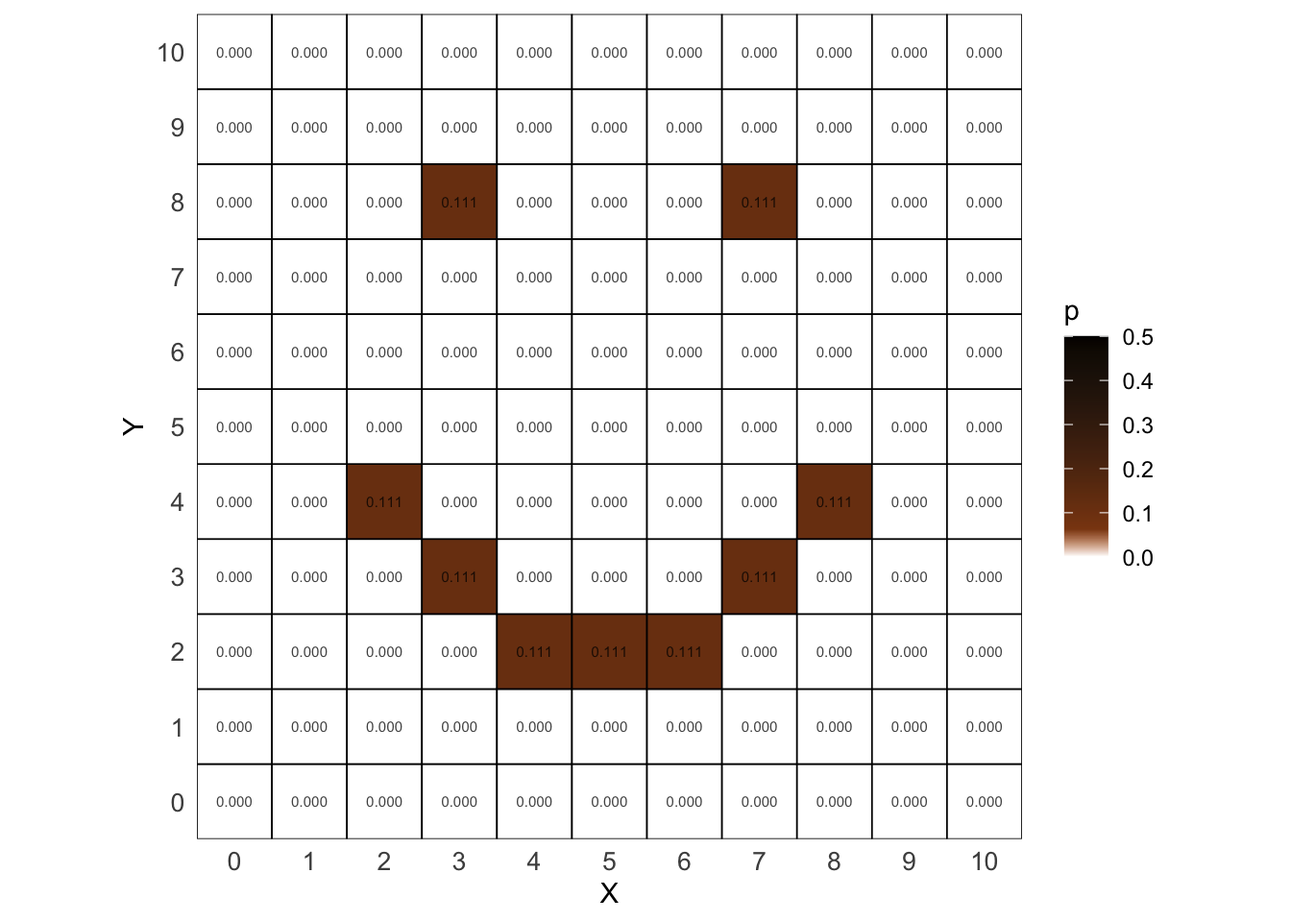
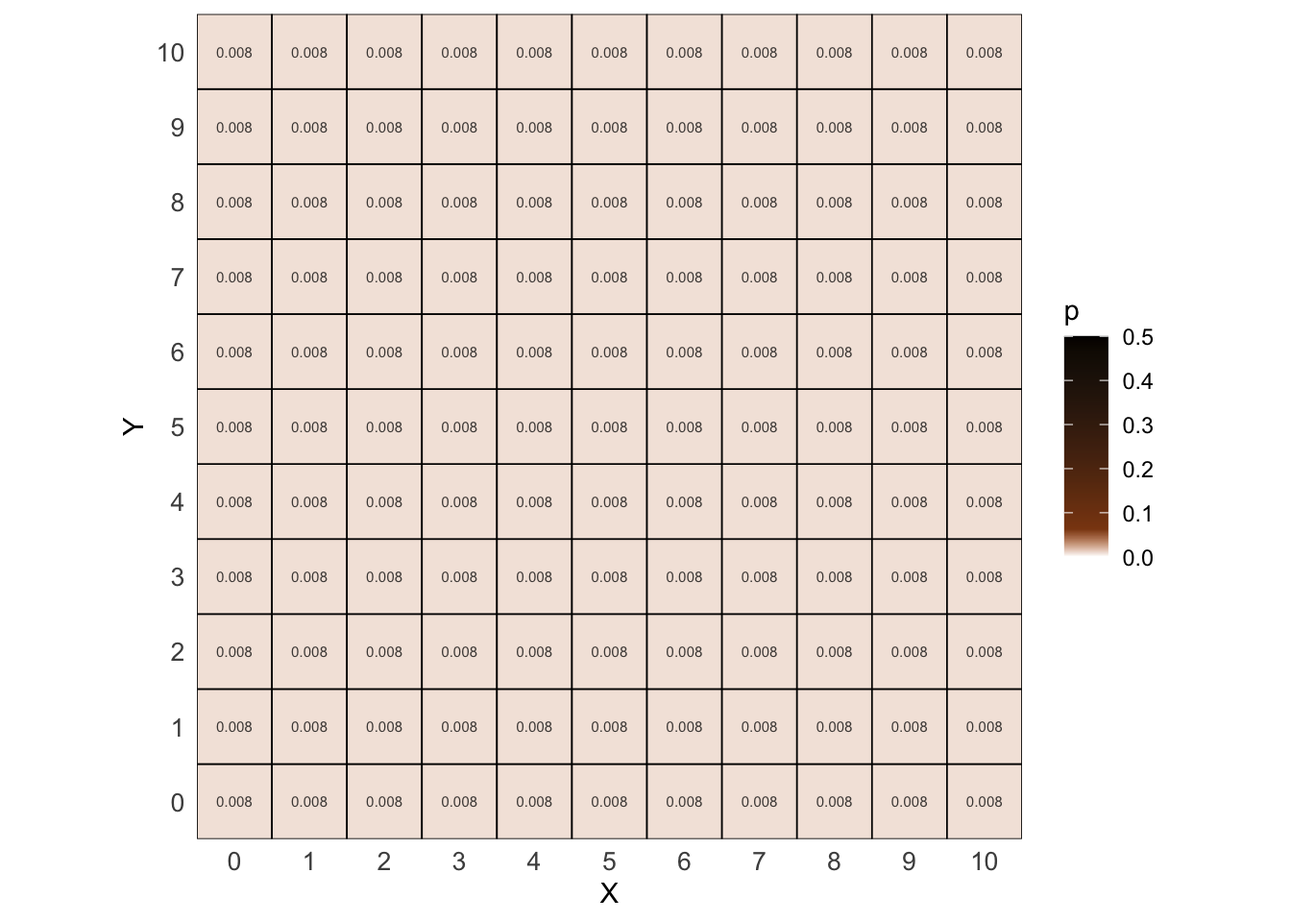
Major edits

diff --git a/lectures/linear_models/from_nutella_on_toast_to_statistical_models.html b/lectures/linear_models/from_nutella_on_toast_to_statistical_models.html
@@ -137,7 +137,12 @@ window.Quarto = {
   <li><a href="#linear-model-with-cauchy-error-heavier-tails-than-the-normal" id="toc-linear-model-with-cauchy-error-heavier-tails-than-the-normal" class="nav-link" data-scroll-target="#linear-model-with-cauchy-error-heavier-tails-than-the-normal">Linear model with Cauchy error (heavier tails than the normal)</a></li>
   <li><a href="#non-linear-model-with-no-error" id="toc-non-linear-model-with-no-error" class="nav-link" data-scroll-target="#non-linear-model-with-no-error">Non-linear model with no error</a></li>
   <li><a href="#non-linear-model-with-normal-error" id="toc-non-linear-model-with-normal-error" class="nav-link" data-scroll-target="#non-linear-model-with-normal-error">Non-linear model with normal error</a></li>
-  <li><a href="#another-non-linear-model-with-no-error" id="toc-another-non-linear-model-with-no-error" class="nav-link" data-scroll-target="#another-non-linear-model-with-no-error">Another non-linear model with no error</a></li>
+  </ul></li>
+  <li><a href="#conditional-probability" id="toc-conditional-probability" class="nav-link" data-scroll-target="#conditional-probability">Conditional probability</a>
+  <ul class="collapse">
+  <li><a href="#uniform-model-1" id="toc-uniform-model-1" class="nav-link" data-scroll-target="#uniform-model-1">Uniform model</a></li>
+  <li><a href="#linear-model-with-no-error-1" id="toc-linear-model-with-no-error-1" class="nav-link" data-scroll-target="#linear-model-with-no-error-1">Linear model with no error</a></li>
+  <li><a href="#linear-model-with-uniform-error-2" id="toc-linear-model-with-uniform-error-2" class="nav-link" data-scroll-target="#linear-model-with-uniform-error-2">Linear model with uniform error</a></li>
   </ul></li>
   <li><a href="#print-environment" id="toc-print-environment" class="nav-link" data-scroll-target="#print-environment">Print environment</a></li>
   </ul>
@@ -525,7 +530,7 @@ window.Quarto = {
 </div>
 </div>
 <p><span class="math inline">\(p(x, y)\)</span></p>
-<p><span class="math display">\[P(Y = 2 \mid X = 1, M_0)\]</span></p>
+<p><span class="math display">\[P(Y = 3 \mid X = 1, M_0)\]</span></p>
 </section>
 <section id="calculate-conditional-probability-1" class="level3">
 <h3 class="anchored" data-anchor-id="calculate-conditional-probability-1">Calculate conditional probability</h3>
@@ -550,7 +555,7 @@ window.Quarto = {
 </div>
 </div>
 <p><span class="math inline">\(p(x, y \mid X = 1)\)</span></p>
-<p><span class="math display">\[P(Y = 2 \mid X = 1, M_0)\]</span></p>
+<p><span class="math display">\[P(Y = 3 \mid X = 1, M_0)\]</span></p>
 <div class="cell">
 <div class="sourceCode cell-code" id="cb18"><pre class="sourceCode r code-with-copy"><code class="sourceCode r"><span id="cb18-1"><a href="#cb18-1" aria-hidden="true" tabindex="-1"></a><span class="fu">expand_grid</span>(<span class="at">X =</span> <span class="fu">c</span>(<span class="dv">0</span>, <span class="dv">1</span>, <span class="dv">2</span>, <span class="dv">3</span>), <span class="at">Y =</span> <span class="fu">c</span>(<span class="dv">0</span>, <span class="dv">1</span>, <span class="dv">2</span>, <span class="dv">3</span>)) <span class="sc">%&gt;%</span></span>
 <span id="cb18-2"><a href="#cb18-2" aria-hidden="true" tabindex="-1"></a>  <span class="fu">mutate</span>(</span>
@@ -562,7 +567,7 @@ window.Quarto = {
 <span id="cb18-8"><a href="#cb18-8" aria-hidden="true" tabindex="-1"></a>  <span class="fu">mutate</span>(</span>
 <span id="cb18-9"><a href="#cb18-9" aria-hidden="true" tabindex="-1"></a>    <span class="at">p =</span> <span class="fu">if_else</span>(M1, p <span class="sc">/</span> <span class="fu">sum</span>(p[M1]), <span class="dv">0</span>)</span>
 <span id="cb18-10"><a href="#cb18-10" aria-hidden="true" tabindex="-1"></a>  ) <span class="sc">%&gt;%</span></span>
-<span id="cb18-11"><a href="#cb18-11" aria-hidden="true" tabindex="-1"></a>  <span class="fu">filter</span>(Y <span class="sc">==</span> <span class="dv">2</span>) <span class="sc">%&gt;%</span> </span>
+<span id="cb18-11"><a href="#cb18-11" aria-hidden="true" tabindex="-1"></a>  <span class="fu">filter</span>(Y <span class="sc">==</span> <span class="dv">3</span>) <span class="sc">%&gt;%</span> </span>
 <span id="cb18-12"><a href="#cb18-12" aria-hidden="true" tabindex="-1"></a>  <span class="fu">summarize</span>(<span class="at">P =</span> <span class="fu">sum</span>(p))</span></code><button title="Copy to Clipboard" class="code-copy-button"><i class="bi"></i></button></pre></div>
 <div class="cell-output-display">
 <div data-pagedtable="false">
@@ -916,22 +921,17 @@ p(x, y \mid M_2) &amp; = p\bigl(x, y \mid (y = 3 + x + e), e \sim \text{Cauchy}(
 </div>
 </div>
 </section>
-<section id="another-non-linear-model-with-no-error" class="level3">
-<h3 class="anchored" data-anchor-id="another-non-linear-model-with-no-error">Another non-linear model with no error</h3>
+</section>
+<section id="conditional-probability" class="level2">
+<h2 class="anchored" data-anchor-id="conditional-probability">Conditional probability</h2>
+<section id="uniform-model-1" class="level3">
+<h3 class="anchored" data-anchor-id="uniform-model-1">Uniform model</h3>
 <div class="cell">
-<div class="sourceCode cell-code" id="cb35"><pre class="sourceCode r code-with-copy"><code class="sourceCode r"><span id="cb35-1"><a href="#cb35-1" aria-hidden="true" tabindex="-1"></a>ss <span class="sc">%&gt;%</span></span>
-<span id="cb35-2"><a href="#cb35-2" aria-hidden="true" tabindex="-1"></a>  <span class="fu">mutate</span>(<span class="at">p =</span> <span class="dv">1</span> <span class="sc">/</span> <span class="fu">n</span>()) <span class="sc">%&gt;%</span></span>
-<span id="cb35-3"><a href="#cb35-3" aria-hidden="true" tabindex="-1"></a>  <span class="fu">rowwise</span>() <span class="sc">%&gt;%</span></span>
-<span id="cb35-4"><a href="#cb35-4" aria-hidden="true" tabindex="-1"></a>  <span class="fu">mutate</span>(</span>
-<span id="cb35-5"><a href="#cb35-5" aria-hidden="true" tabindex="-1"></a>    <span class="at">M4 =</span> (Y <span class="sc">==</span> <span class="fu">c</span>(<span class="sc">-</span><span class="dv">1</span>, <span class="sc">-</span><span class="dv">1</span>, <span class="dv">4</span>, <span class="dv">3</span>, <span class="dv">2</span>, <span class="dv">2</span>, <span class="dv">2</span>, <span class="dv">3</span>, <span class="dv">4</span>, <span class="sc">-</span><span class="dv">1</span>, <span class="sc">-</span><span class="dv">1</span>)[X <span class="sc">+</span> <span class="dv">1</span>]) <span class="sc">|</span></span>
-<span id="cb35-6"><a href="#cb35-6" aria-hidden="true" tabindex="-1"></a>         (X <span class="sc">==</span> <span class="dv">3</span> <span class="sc">&amp;</span> Y <span class="sc">==</span> <span class="dv">8</span>) <span class="sc">|</span></span>
-<span id="cb35-7"><a href="#cb35-7" aria-hidden="true" tabindex="-1"></a>         (X <span class="sc">==</span> <span class="dv">7</span> <span class="sc">&amp;</span> Y <span class="sc">==</span> <span class="dv">8</span>)</span>
-<span id="cb35-8"><a href="#cb35-8" aria-hidden="true" tabindex="-1"></a>  ) <span class="sc">%&gt;%</span></span>
-<span id="cb35-9"><a href="#cb35-9" aria-hidden="true" tabindex="-1"></a>  <span class="fu">ungroup</span>() <span class="sc">%&gt;%</span></span>
-<span id="cb35-10"><a href="#cb35-10" aria-hidden="true" tabindex="-1"></a>  <span class="fu">mutate</span>(</span>
-<span id="cb35-11"><a href="#cb35-11" aria-hidden="true" tabindex="-1"></a>    <span class="at">p =</span> <span class="fu">if_else</span>(M4, p <span class="sc">/</span> <span class="fu">sum</span>(p[M4]), <span class="dv">0</span>)</span>
-<span id="cb35-12"><a href="#cb35-12" aria-hidden="true" tabindex="-1"></a>  ) <span class="sc">%&gt;%</span></span>
-<span id="cb35-13"><a href="#cb35-13" aria-hidden="true" tabindex="-1"></a>  <span class="fu">plot_model</span>()</span></code><button title="Copy to Clipboard" class="code-copy-button"><i class="bi"></i></button></pre></div>
+<div class="sourceCode cell-code" id="cb35"><pre class="sourceCode r code-with-copy"><code class="sourceCode r"><span id="cb35-1"><a href="#cb35-1" aria-hidden="true" tabindex="-1"></a>ss <span class="sc">%&gt;%</span> </span>
+<span id="cb35-2"><a href="#cb35-2" aria-hidden="true" tabindex="-1"></a>  <span class="fu">mutate</span>(</span>
+<span id="cb35-3"><a href="#cb35-3" aria-hidden="true" tabindex="-1"></a>    <span class="at">p =</span> <span class="dv">1</span> <span class="sc">/</span> <span class="fu">n</span>() <span class="co"># M0</span></span>
+<span id="cb35-4"><a href="#cb35-4" aria-hidden="true" tabindex="-1"></a>  ) <span class="sc">%&gt;%</span></span>
+<span id="cb35-5"><a href="#cb35-5" aria-hidden="true" tabindex="-1"></a>  <span class="fu">plot_model</span>()</span></code><button title="Copy to Clipboard" class="code-copy-button"><i class="bi"></i></button></pre></div>
 <div class="cell-output-display">
 <div>
 <figure class="figure">
@@ -940,12 +940,197 @@ p(x, y \mid M_2) &amp; = p\bigl(x, y \mid (y = 3 + x + e), e \sim \text{Cauchy}(
 </div>
 </div>
 </div>
+<p><span class="math inline">\(p(x, y)\)</span></p>
+<p><span class="math display">\[P(Y = 4 \mid M_0)\]</span></p>
+<div class="cell">
+<div class="sourceCode cell-code" id="cb36"><pre class="sourceCode r code-with-copy"><code class="sourceCode r"><span id="cb36-1"><a href="#cb36-1" aria-hidden="true" tabindex="-1"></a>ss <span class="sc">%&gt;%</span> </span>
+<span id="cb36-2"><a href="#cb36-2" aria-hidden="true" tabindex="-1"></a>  <span class="fu">mutate</span>(</span>
+<span id="cb36-3"><a href="#cb36-3" aria-hidden="true" tabindex="-1"></a>    <span class="at">p =</span> <span class="dv">1</span> <span class="sc">/</span> <span class="fu">n</span>() <span class="co"># M0</span></span>
+<span id="cb36-4"><a href="#cb36-4" aria-hidden="true" tabindex="-1"></a>  ) <span class="sc">%&gt;%</span></span>
+<span id="cb36-5"><a href="#cb36-5" aria-hidden="true" tabindex="-1"></a>  <span class="fu">filter</span>(Y <span class="sc">==</span> <span class="dv">4</span>) <span class="sc">%&gt;%</span> </span>
+<span id="cb36-6"><a href="#cb36-6" aria-hidden="true" tabindex="-1"></a>  <span class="fu">summarize</span>(<span class="at">P =</span> <span class="fu">sum</span>(p))</span></code><button title="Copy to Clipboard" class="code-copy-button"><i class="bi"></i></button></pre></div>
+<div class="cell-output-display">
+<div data-pagedtable="false">
+  <script data-pagedtable-source="" type="application/json">
+{"columns":[{"label":["P"],"name":[1],"type":["dbl"],"align":["right"]}],"data":[{"1":"0.09091"}],"options":{"columns":{"min":{},"max":[10]},"rows":{"min":[10],"max":[10]},"pages":{}}}
+  </script>
+</div>
+</div>
+</div>
+<p><span class="math display">\[P(Y = 4 \mid X = 1, M_0)\]</span></p>
+<div class="cell">
+<div class="sourceCode cell-code" id="cb37"><pre class="sourceCode r code-with-copy"><code class="sourceCode r"><span id="cb37-1"><a href="#cb37-1" aria-hidden="true" tabindex="-1"></a>ss <span class="sc">%&gt;%</span> </span>
+<span id="cb37-2"><a href="#cb37-2" aria-hidden="true" tabindex="-1"></a>  <span class="fu">mutate</span>(</span>
+<span id="cb37-3"><a href="#cb37-3" aria-hidden="true" tabindex="-1"></a>    <span class="at">p =</span> <span class="dv">1</span> <span class="sc">/</span> <span class="fu">n</span>() <span class="co"># M0</span></span>
+<span id="cb37-4"><a href="#cb37-4" aria-hidden="true" tabindex="-1"></a>  ) <span class="sc">%&gt;%</span></span>
+<span id="cb37-5"><a href="#cb37-5" aria-hidden="true" tabindex="-1"></a>  <span class="fu">rowwise</span>() <span class="sc">%&gt;%</span> </span>
+<span id="cb37-6"><a href="#cb37-6" aria-hidden="true" tabindex="-1"></a>  <span class="fu">mutate</span>(</span>
+<span id="cb37-7"><a href="#cb37-7" aria-hidden="true" tabindex="-1"></a>    <span class="at">X1 =</span> (X <span class="sc">==</span> <span class="dv">1</span>)) <span class="sc">%&gt;%</span> </span>
+<span id="cb37-8"><a href="#cb37-8" aria-hidden="true" tabindex="-1"></a>  <span class="fu">ungroup</span>() <span class="sc">%&gt;%</span></span>
+<span id="cb37-9"><a href="#cb37-9" aria-hidden="true" tabindex="-1"></a>  <span class="fu">mutate</span>(<span class="at">p =</span> <span class="fu">if_else</span>(X1, p <span class="sc">/</span> <span class="fu">sum</span>(p[X1]), <span class="dv">0</span>)) <span class="sc">%&gt;%</span></span>
+<span id="cb37-10"><a href="#cb37-10" aria-hidden="true" tabindex="-1"></a>  <span class="fu">filter</span>(Y <span class="sc">==</span> <span class="dv">4</span>) <span class="sc">%&gt;%</span> </span>
+<span id="cb37-11"><a href="#cb37-11" aria-hidden="true" tabindex="-1"></a>  <span class="fu">summarize</span>(<span class="at">P =</span> <span class="fu">sum</span>(p))</span></code><button title="Copy to Clipboard" class="code-copy-button"><i class="bi"></i></button></pre></div>
+<div class="cell-output-display">
+<div data-pagedtable="false">
+  <script data-pagedtable-source="" type="application/json">
+{"columns":[{"label":["P"],"name":[1],"type":["dbl"],"align":["right"]}],"data":[{"1":"0.09091"}],"options":{"columns":{"min":{},"max":[10]},"rows":{"min":[10],"max":[10]},"pages":{}}}
+  </script>
+</div>
+</div>
+</div>
+</section>
+<section id="linear-model-with-no-error-1" class="level3">
+<h3 class="anchored" data-anchor-id="linear-model-with-no-error-1">Linear model with no error</h3>
+<div class="cell">
+<div class="sourceCode cell-code" id="cb38"><pre class="sourceCode r code-with-copy"><code class="sourceCode r"><span id="cb38-1"><a href="#cb38-1" aria-hidden="true" tabindex="-1"></a>ss <span class="sc">%&gt;%</span> </span>
+<span id="cb38-2"><a href="#cb38-2" aria-hidden="true" tabindex="-1"></a>  <span class="fu">mutate</span>(</span>
+<span id="cb38-3"><a href="#cb38-3" aria-hidden="true" tabindex="-1"></a>    <span class="at">p =</span> <span class="dv">1</span> <span class="sc">/</span> <span class="fu">n</span>() <span class="co"># M0</span></span>
+<span id="cb38-4"><a href="#cb38-4" aria-hidden="true" tabindex="-1"></a>  ) <span class="sc">%&gt;%</span></span>
+<span id="cb38-5"><a href="#cb38-5" aria-hidden="true" tabindex="-1"></a>  <span class="fu">rowwise</span>() <span class="sc">%&gt;%</span> </span>
+<span id="cb38-6"><a href="#cb38-6" aria-hidden="true" tabindex="-1"></a>  <span class="fu">mutate</span>(</span>
+<span id="cb38-7"><a href="#cb38-7" aria-hidden="true" tabindex="-1"></a>    <span class="at">M1 =</span> (Y <span class="sc">==</span> b0 <span class="sc">+</span> b1 <span class="sc">*</span> X)) <span class="sc">%&gt;%</span> </span>
+<span id="cb38-8"><a href="#cb38-8" aria-hidden="true" tabindex="-1"></a>  <span class="fu">ungroup</span>() <span class="sc">%&gt;%</span></span>
+<span id="cb38-9"><a href="#cb38-9" aria-hidden="true" tabindex="-1"></a>  <span class="fu">mutate</span>(<span class="at">p =</span> <span class="fu">if_else</span>(M1, p <span class="sc">/</span> <span class="fu">sum</span>(p[M1]), <span class="dv">0</span>)) <span class="sc">%&gt;%</span></span>
+<span id="cb38-10"><a href="#cb38-10" aria-hidden="true" tabindex="-1"></a>  <span class="fu">plot_model</span>()</span></code><button title="Copy to Clipboard" class="code-copy-button"><i class="bi"></i></button></pre></div>
+<div class="cell-output-display">
+<div>
+<figure class="figure">
+<p><img src="from_nutella_on_toast_to_statistical_models_files/figure-html/unnamed-chunk-38-1.png" class="img-fluid figure-img" width="672"></p>
+</figure>
+</div>
+</div>
+</div>
+<p><span class="math display">\[
+\begin{aligned}
+p(x, y \mid M_1) &amp; = p(x, y \mid y = 3 + x) \\
+                 &amp; = p(x, y \mid \beta_0 = 3, \beta_1 = 1, M_L) \quad M_L: y = \beta_0 + \beta_1 x
+\end{aligned}
+\]</span></p>
+<p><span class="math display">\[P(Y = 4, M_1)\]</span></p>
+<div class="cell">
+<div class="sourceCode cell-code" id="cb39"><pre class="sourceCode r code-with-copy"><code class="sourceCode r"><span id="cb39-1"><a href="#cb39-1" aria-hidden="true" tabindex="-1"></a>ss <span class="sc">%&gt;%</span> </span>
+<span id="cb39-2"><a href="#cb39-2" aria-hidden="true" tabindex="-1"></a>  <span class="fu">mutate</span>(</span>
+<span id="cb39-3"><a href="#cb39-3" aria-hidden="true" tabindex="-1"></a>    <span class="at">p =</span> <span class="dv">1</span> <span class="sc">/</span> <span class="fu">n</span>() <span class="co"># M0</span></span>
+<span id="cb39-4"><a href="#cb39-4" aria-hidden="true" tabindex="-1"></a>  ) <span class="sc">%&gt;%</span></span>
+<span id="cb39-5"><a href="#cb39-5" aria-hidden="true" tabindex="-1"></a>  <span class="fu">rowwise</span>() <span class="sc">%&gt;%</span> </span>
+<span id="cb39-6"><a href="#cb39-6" aria-hidden="true" tabindex="-1"></a>  <span class="fu">mutate</span>(</span>
+<span id="cb39-7"><a href="#cb39-7" aria-hidden="true" tabindex="-1"></a>    <span class="at">M1 =</span> (Y <span class="sc">==</span> b0 <span class="sc">+</span> b1 <span class="sc">*</span> X)) <span class="sc">%&gt;%</span> </span>
+<span id="cb39-8"><a href="#cb39-8" aria-hidden="true" tabindex="-1"></a>  <span class="fu">ungroup</span>() <span class="sc">%&gt;%</span></span>
+<span id="cb39-9"><a href="#cb39-9" aria-hidden="true" tabindex="-1"></a>  <span class="fu">mutate</span>(<span class="at">p =</span> <span class="fu">if_else</span>(M1, p <span class="sc">/</span> <span class="fu">sum</span>(p[M1]), <span class="dv">0</span>)) <span class="sc">%&gt;%</span></span>
+<span id="cb39-10"><a href="#cb39-10" aria-hidden="true" tabindex="-1"></a>  <span class="fu">filter</span>(Y <span class="sc">==</span> <span class="dv">4</span>) <span class="sc">%&gt;%</span> </span>
+<span id="cb39-11"><a href="#cb39-11" aria-hidden="true" tabindex="-1"></a>  <span class="fu">summarize</span>(<span class="at">P =</span> <span class="fu">sum</span>(p))</span></code><button title="Copy to Clipboard" class="code-copy-button"><i class="bi"></i></button></pre></div>
+<div class="cell-output-display">
+<div data-pagedtable="false">
+  <script data-pagedtable-source="" type="application/json">
+{"columns":[{"label":["P"],"name":[1],"type":["dbl"],"align":["right"]}],"data":[{"1":"0.125"}],"options":{"columns":{"min":{},"max":[10]},"rows":{"min":[10],"max":[10]},"pages":{}}}
+  </script>
+</div>
+</div>
+</div>
+<p><span class="math display">\[P(Y = 4 \mid X = 1, M_1)\]</span></p>
+<div class="cell">
+<div class="sourceCode cell-code" id="cb40"><pre class="sourceCode r code-with-copy"><code class="sourceCode r"><span id="cb40-1"><a href="#cb40-1" aria-hidden="true" tabindex="-1"></a>ss <span class="sc">%&gt;%</span> </span>
+<span id="cb40-2"><a href="#cb40-2" aria-hidden="true" tabindex="-1"></a>  <span class="fu">mutate</span>(</span>
+<span id="cb40-3"><a href="#cb40-3" aria-hidden="true" tabindex="-1"></a>    <span class="at">p =</span> <span class="dv">1</span> <span class="sc">/</span> <span class="fu">n</span>() <span class="co"># M0</span></span>
+<span id="cb40-4"><a href="#cb40-4" aria-hidden="true" tabindex="-1"></a>  ) <span class="sc">%&gt;%</span></span>
+<span id="cb40-5"><a href="#cb40-5" aria-hidden="true" tabindex="-1"></a>  <span class="fu">rowwise</span>() <span class="sc">%&gt;%</span> </span>
+<span id="cb40-6"><a href="#cb40-6" aria-hidden="true" tabindex="-1"></a>  <span class="fu">mutate</span>(</span>
+<span id="cb40-7"><a href="#cb40-7" aria-hidden="true" tabindex="-1"></a>    <span class="at">M1 =</span> (Y <span class="sc">==</span> b0 <span class="sc">+</span> b1 <span class="sc">*</span> X),</span>
+<span id="cb40-8"><a href="#cb40-8" aria-hidden="true" tabindex="-1"></a>    <span class="at">X1 =</span> (X <span class="sc">==</span> <span class="dv">1</span>)) <span class="sc">%&gt;%</span> </span>
+<span id="cb40-9"><a href="#cb40-9" aria-hidden="true" tabindex="-1"></a>  <span class="fu">ungroup</span>() <span class="sc">%&gt;%</span></span>
+<span id="cb40-10"><a href="#cb40-10" aria-hidden="true" tabindex="-1"></a>  <span class="fu">mutate</span>(<span class="at">p =</span> <span class="fu">if_else</span>(X1 <span class="sc">&amp;</span> M1, p <span class="sc">/</span> <span class="fu">sum</span>(p[X1 <span class="sc">&amp;</span> M1]), <span class="dv">0</span>)) <span class="sc">%&gt;%</span></span>
+<span id="cb40-11"><a href="#cb40-11" aria-hidden="true" tabindex="-1"></a>  <span class="fu">filter</span>(Y <span class="sc">==</span> <span class="dv">4</span>) <span class="sc">%&gt;%</span> </span>
+<span id="cb40-12"><a href="#cb40-12" aria-hidden="true" tabindex="-1"></a>  <span class="fu">summarize</span>(<span class="at">P =</span> <span class="fu">sum</span>(p))</span></code><button title="Copy to Clipboard" class="code-copy-button"><i class="bi"></i></button></pre></div>
+<div class="cell-output-display">
+<div data-pagedtable="false">
+  <script data-pagedtable-source="" type="application/json">
+{"columns":[{"label":["P"],"name":[1],"type":["dbl"],"align":["right"]}],"data":[{"1":"1"}],"options":{"columns":{"min":{},"max":[10]},"rows":{"min":[10],"max":[10]},"pages":{}}}
+  </script>
+</div>
+</div>
+</div>
+</section>
+<section id="linear-model-with-uniform-error-2" class="level3">
+<h3 class="anchored" data-anchor-id="linear-model-with-uniform-error-2">Linear model with uniform error</h3>
+<div class="cell">
+<div class="sourceCode cell-code" id="cb41"><pre class="sourceCode r code-with-copy"><code class="sourceCode r"><span id="cb41-1"><a href="#cb41-1" aria-hidden="true" tabindex="-1"></a>ss <span class="sc">%&gt;%</span> </span>
+<span id="cb41-2"><a href="#cb41-2" aria-hidden="true" tabindex="-1"></a>  <span class="fu">mutate</span>(</span>
+<span id="cb41-3"><a href="#cb41-3" aria-hidden="true" tabindex="-1"></a>    <span class="at">p =</span> <span class="dv">1</span> <span class="sc">/</span> <span class="fu">n</span>() <span class="co"># M0</span></span>
+<span id="cb41-4"><a href="#cb41-4" aria-hidden="true" tabindex="-1"></a>  ) <span class="sc">%&gt;%</span></span>
+<span id="cb41-5"><a href="#cb41-5" aria-hidden="true" tabindex="-1"></a>  <span class="fu">rowwise</span>() <span class="sc">%&gt;%</span> </span>
+<span id="cb41-6"><a href="#cb41-6" aria-hidden="true" tabindex="-1"></a>  <span class="fu">mutate</span>(</span>
+<span id="cb41-7"><a href="#cb41-7" aria-hidden="true" tabindex="-1"></a>    <span class="at">M2 =</span> Y <span class="sc">%in%</span> (b0 <span class="sc">+</span> b1 <span class="sc">*</span> X <span class="sc">+</span> e)</span>
+<span id="cb41-8"><a href="#cb41-8" aria-hidden="true" tabindex="-1"></a>  ) <span class="sc">%&gt;%</span></span>
+<span id="cb41-9"><a href="#cb41-9" aria-hidden="true" tabindex="-1"></a>  <span class="fu">ungroup</span>() <span class="sc">%&gt;%</span></span>
+<span id="cb41-10"><a href="#cb41-10" aria-hidden="true" tabindex="-1"></a>  <span class="fu">mutate</span>(<span class="at">p =</span> <span class="fu">if_else</span>(M2, p <span class="sc">/</span> <span class="fu">sum</span>(p[M2]), <span class="dv">0</span>)) <span class="sc">%&gt;%</span></span>
+<span id="cb41-11"><a href="#cb41-11" aria-hidden="true" tabindex="-1"></a>  <span class="fu">plot_model</span>()</span></code><button title="Copy to Clipboard" class="code-copy-button"><i class="bi"></i></button></pre></div>
+<div class="cell-output-display">
+<div>
+<figure class="figure">
+<p><img src="from_nutella_on_toast_to_statistical_models_files/figure-html/unnamed-chunk-41-1.png" class="img-fluid figure-img" width="672"></p>
+</figure>
+</div>
+</div>
+</div>
+<p><span class="math display">\[
+\begin{aligned}
+p(x, y \mid M_2) &amp; = p(x, y \mid (y = 3 + x + e), e \in [-1, 1]) \\
+                 &amp; = p(x, y \mid (y = 3 + x - 1) \lor (y = 3 + x + 0) \lor (y = 3 + x + 1)) \\
+                 &amp; = p(x, y \mid (y = 2 + x) \lor (y = 3 + x) \lor (y = 4 + x)) \\
+                 &amp; = p(x, y \mid \beta_0 = 3, \beta_1 = 1, \sigma = 1, M_{L+E_U}) \\
+                 \\
+                 &amp; M_{L+E_U}: y = \beta_0 + \beta_1 \cdot x + e \quad e \in [-s, s]
+\end{aligned}
+\]</span></p>
+<p><span class="math display">\[P(Y = 4 \mid M_2)\]</span></p>
+<div class="cell">
+<div class="sourceCode cell-code" id="cb42"><pre class="sourceCode r code-with-copy"><code class="sourceCode r"><span id="cb42-1"><a href="#cb42-1" aria-hidden="true" tabindex="-1"></a>ss <span class="sc">%&gt;%</span> </span>
+<span id="cb42-2"><a href="#cb42-2" aria-hidden="true" tabindex="-1"></a>  <span class="fu">mutate</span>(</span>
+<span id="cb42-3"><a href="#cb42-3" aria-hidden="true" tabindex="-1"></a>    <span class="at">p =</span> <span class="dv">1</span> <span class="sc">/</span> <span class="fu">n</span>() <span class="co"># M0</span></span>
+<span id="cb42-4"><a href="#cb42-4" aria-hidden="true" tabindex="-1"></a>  ) <span class="sc">%&gt;%</span></span>
+<span id="cb42-5"><a href="#cb42-5" aria-hidden="true" tabindex="-1"></a>  <span class="fu">rowwise</span>() <span class="sc">%&gt;%</span> </span>
+<span id="cb42-6"><a href="#cb42-6" aria-hidden="true" tabindex="-1"></a>  <span class="fu">mutate</span>(</span>
+<span id="cb42-7"><a href="#cb42-7" aria-hidden="true" tabindex="-1"></a>    <span class="at">M2 =</span> Y <span class="sc">%in%</span> (b0 <span class="sc">+</span> b1 <span class="sc">*</span> X <span class="sc">+</span> e)) <span class="sc">%&gt;%</span> </span>
+<span id="cb42-8"><a href="#cb42-8" aria-hidden="true" tabindex="-1"></a>  <span class="fu">ungroup</span>() <span class="sc">%&gt;%</span></span>
+<span id="cb42-9"><a href="#cb42-9" aria-hidden="true" tabindex="-1"></a>  <span class="fu">mutate</span>(<span class="at">p =</span> <span class="fu">if_else</span>(M2, p <span class="sc">/</span> <span class="fu">sum</span>(p[M2]), <span class="dv">0</span>)) <span class="sc">%&gt;%</span></span>
+<span id="cb42-10"><a href="#cb42-10" aria-hidden="true" tabindex="-1"></a>  <span class="fu">filter</span>(Y <span class="sc">==</span> <span class="dv">4</span>) <span class="sc">%&gt;%</span> </span>
+<span id="cb42-11"><a href="#cb42-11" aria-hidden="true" tabindex="-1"></a>  <span class="fu">summarize</span>(<span class="at">P =</span> <span class="fu">sum</span>(p))</span></code><button title="Copy to Clipboard" class="code-copy-button"><i class="bi"></i></button></pre></div>
+<div class="cell-output-display">
+<div data-pagedtable="false">
+  <script data-pagedtable-source="" type="application/json">
+{"columns":[{"label":["P"],"name":[1],"type":["dbl"],"align":["right"]}],"data":[{"1":"0.125"}],"options":{"columns":{"min":{},"max":[10]},"rows":{"min":[10],"max":[10]},"pages":{}}}
+  </script>
+</div>
+</div>
+</div>
+<p><span class="math display">\[P(Y = 4 \mid X = 1, M_2)\]</span></p>
+<div class="cell">
+<div class="sourceCode cell-code" id="cb43"><pre class="sourceCode r code-with-copy"><code class="sourceCode r"><span id="cb43-1"><a href="#cb43-1" aria-hidden="true" tabindex="-1"></a>ss <span class="sc">%&gt;%</span> </span>
+<span id="cb43-2"><a href="#cb43-2" aria-hidden="true" tabindex="-1"></a>  <span class="fu">mutate</span>(</span>
+<span id="cb43-3"><a href="#cb43-3" aria-hidden="true" tabindex="-1"></a>    <span class="at">p =</span> <span class="dv">1</span> <span class="sc">/</span> <span class="fu">n</span>() <span class="co"># M0</span></span>
+<span id="cb43-4"><a href="#cb43-4" aria-hidden="true" tabindex="-1"></a>  ) <span class="sc">%&gt;%</span></span>
+<span id="cb43-5"><a href="#cb43-5" aria-hidden="true" tabindex="-1"></a>  <span class="fu">rowwise</span>() <span class="sc">%&gt;%</span> </span>
+<span id="cb43-6"><a href="#cb43-6" aria-hidden="true" tabindex="-1"></a>  <span class="fu">mutate</span>(</span>
+<span id="cb43-7"><a href="#cb43-7" aria-hidden="true" tabindex="-1"></a>    <span class="at">M2 =</span> Y <span class="sc">%in%</span> (b0 <span class="sc">+</span> b1 <span class="sc">*</span> X <span class="sc">+</span> e),</span>
+<span id="cb43-8"><a href="#cb43-8" aria-hidden="true" tabindex="-1"></a>    <span class="at">X1 =</span> (X <span class="sc">==</span> <span class="dv">1</span>)) <span class="sc">%&gt;%</span> </span>
+<span id="cb43-9"><a href="#cb43-9" aria-hidden="true" tabindex="-1"></a>  <span class="fu">ungroup</span>() <span class="sc">%&gt;%</span></span>
+<span id="cb43-10"><a href="#cb43-10" aria-hidden="true" tabindex="-1"></a>  <span class="fu">mutate</span>(<span class="at">p =</span> <span class="fu">if_else</span>(X1 <span class="sc">&amp;</span> M2, p <span class="sc">/</span> <span class="fu">sum</span>(p[X1 <span class="sc">&amp;</span> M2]), <span class="dv">0</span>)) <span class="sc">%&gt;%</span></span>
+<span id="cb43-11"><a href="#cb43-11" aria-hidden="true" tabindex="-1"></a>  <span class="fu">filter</span>(Y <span class="sc">==</span> <span class="dv">4</span>) <span class="sc">%&gt;%</span> </span>
+<span id="cb43-12"><a href="#cb43-12" aria-hidden="true" tabindex="-1"></a>  <span class="fu">summarize</span>(<span class="at">P =</span> <span class="fu">sum</span>(p))</span></code><button title="Copy to Clipboard" class="code-copy-button"><i class="bi"></i></button></pre></div>
+<div class="cell-output-display">
+<div data-pagedtable="false">
+  <script data-pagedtable-source="" type="application/json">
+{"columns":[{"label":["P"],"name":[1],"type":["dbl"],"align":["right"]}],"data":[{"1":"0.3333"}],"options":{"columns":{"min":{},"max":[10]},"rows":{"min":[10],"max":[10]},"pages":{}}}
+  </script>
+</div>
+</div>
+</div>
 </section>
 </section>
 <section id="print-environment" class="level2">
 <h2 class="anchored" data-anchor-id="print-environment">Print environment</h2>
 <div class="cell">
-<div class="sourceCode cell-code" id="cb36"><pre class="sourceCode r code-with-copy"><code class="sourceCode r"><span id="cb36-1"><a href="#cb36-1" aria-hidden="true" tabindex="-1"></a>sessioninfo<span class="sc">::</span><span class="fu">session_info</span>()</span></code><button title="Copy to Clipboard" class="code-copy-button"><i class="bi"></i></button></pre></div>
+<div class="sourceCode cell-code" id="cb44"><pre class="sourceCode r code-with-copy"><code class="sourceCode r"><span id="cb44-1"><a href="#cb44-1" aria-hidden="true" tabindex="-1"></a>sessioninfo<span class="sc">::</span><span class="fu">session_info</span>()</span></code><button title="Copy to Clipboard" class="code-copy-button"><i class="bi"></i></button></pre></div>
 <div class="cell-output cell-output-stdout">
 <pre><code>─ Session info ───────────────────────────────────────────────────────────────
  setting  value
